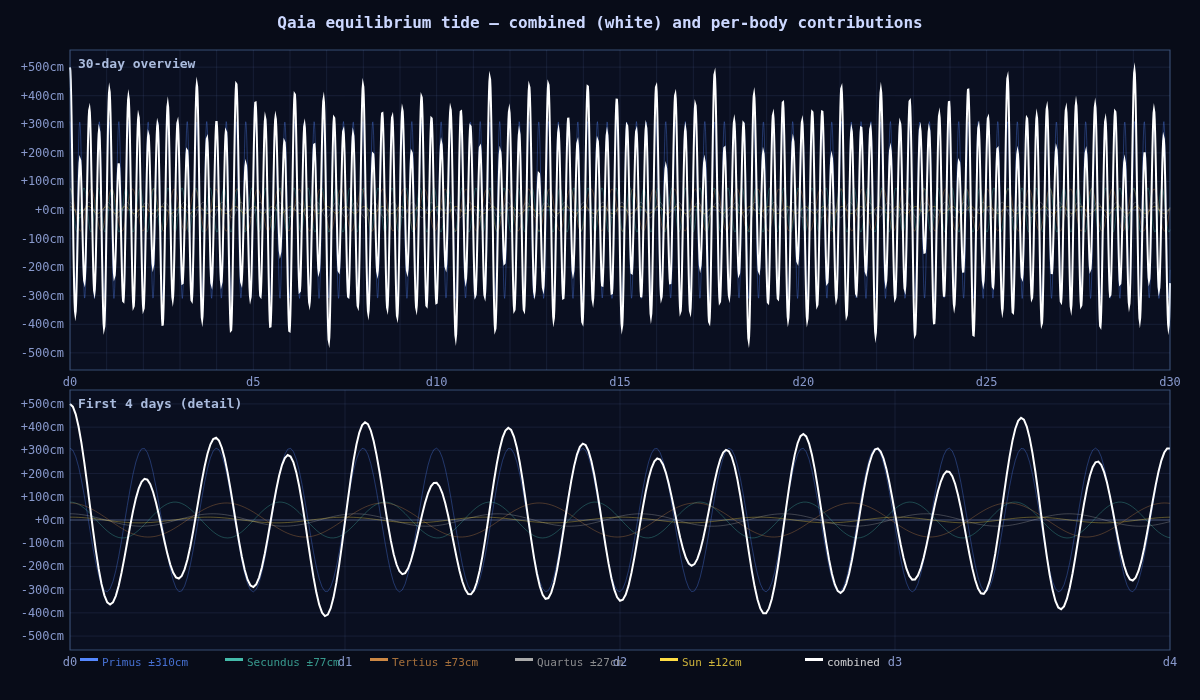
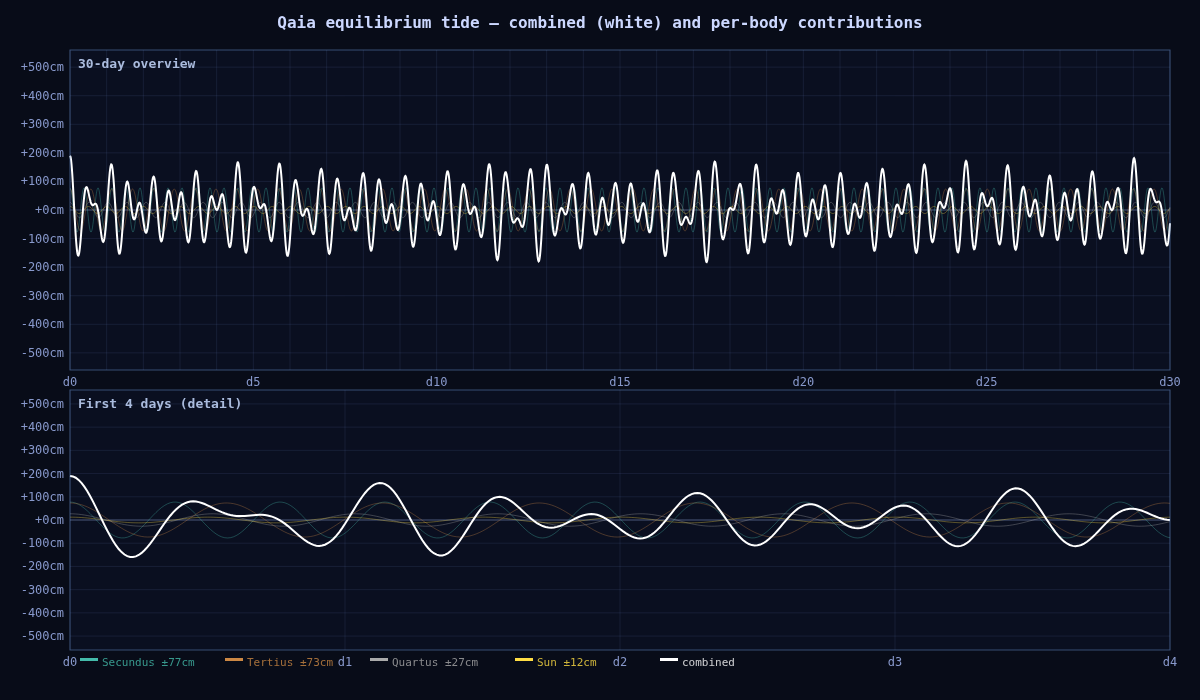
Add geosynchronous Primus: magically anchored to Qaia's sidereal orbit
- simulation.js: anchor mechanism — Body.anchor config, _enforceAnchors()
  called at construction and end of each step; _anchors cache avoids
  scanning all bodies on every step
- bodies.js: Primus at GEO radius (~0.11 LD), 0.001 M_moon, 2× lunar
  density, prograde circular orbit anchored to Qaia index 1;
  Sextus moved inward to 1.7 LD for stability
- MOONS.md: Primus section rewritten for geosynchronous orbit; notes
  permanent ~4m static tidal bulge instead of oscillating tide
- analysis/moon_stats.mjs: Primus as geosynchronous with T_d_override;
  density computed from M and R directly
- analysis/tide_sim.mjs: Primus removed (static bulge, no tidal cycle);
  Sextus updated to 1.7 LD
- tests/geo_stability.mjs, geo_primus_check.mjs, secundus_sweep.mjs,
  geo_zoom.mjs: stability and screenshot scripts for geo-primus branch

diff --git a/bodies.js b/bodies.js
@@ -13,15 +13,17 @@ export const R_EARTH            = 6.371e6;  // meters
 export const R_MOON     = 1.737e6;  // meters
 
 // Six-moon system stable past 1000 simulated years.
-// Inner four (all e=0.10): Primus 0.02 LM at 0.12 LD (≈ 1.14 d), Secundus 0.04 LM at 0.24 LD (≈ 3.23 d),
-//   Tertius 0.25 LM at 0.45 LD (≈ 8.3 d), Quartus 1.00 LM at 1.00 LD (≈ 27.5 d).
-//   Primus and Secundus retrograde, 2× lunar density; Tertius and Quartus prograde.
-// Outer two (retrograde): Sextus 0.01 LM at 1.9 LD (≈ 72 d), Septimus 0.01 LM at 2.2 LD (≈ 90 d).
-const M_PRIMUS       = M_MOON * 0.02;
-const R_PRIMUS       = R_MOON * Math.cbrt(0.02 / 2);  // 2× lunar density
-const PRIMUS_E       = 0.10;
-const PRIMUS_A       = 0.12 * LUNAR_DIST;
-const PRIMUS_R_PERI  = PRIMUS_A * (1 - PRIMUS_E);
+// Primus: geosynchronous prograde (magically anchored, ~0.11 LD), 0.001 LM, 2× lunar density.
+// Inner three (all e=0.10): Secundus 0.04 LM at 0.24 LD (≈ 3.23 d) retrograde,
+//   Tertius 0.25 LM at 0.45 LD (≈ 8.3 d) prograde, Quartus 1.00 LM at 1.00 LD (≈ 27.5 d) prograde.
+// Outer two (retrograde): Sextus 0.01 LM at 1.7 LD (≈ 60.8 d), Septimus 0.01 LM at 2.2 LD (≈ 90 d).
+export const QAIA_SIDEREAL_DAY = 86164;  // seconds — Qaia's sidereal rotation period
+
+const M_PRIMUS       = M_MOON * 0.001;
+const R_PRIMUS       = R_MOON * Math.cbrt(0.001 / 2);  // 2× lunar density
+const PRIMUS_OMEGA   = 2 * Math.PI / QAIA_SIDEREAL_DAY;  // geosynchronous angular velocity
+const PRIMUS_A       = Math.cbrt(G * M_EARTH / (PRIMUS_OMEGA * PRIMUS_OMEGA));  // ~42,160 km
+const PRIMUS_PHASE   = Math.PI;  // initial angle in inertial frame (toward Sun side at t=0)
 
 const M_SECUNDUS      = M_MOON * 0.04;
 const R_SECUNDUS      = R_MOON * Math.cbrt(0.04 / 2);  // 2× lunar density
@@ -46,7 +48,7 @@ const R_QUINTUS      = R_MOON * Math.cbrt(0.1);
 const M_SEXTUS       = M_MOON * 0.01;
 const R_SEXTUS       = R_MOON * Math.cbrt(0.01);
 const SEXTUS_E       = 0.10;
-const SEXTUS_A       = 1.9 * LUNAR_DIST;
+const SEXTUS_A       = 1.7 * LUNAR_DIST;
 const SEXTUS_R_PERI  = SEXTUS_A * (1 - SEXTUS_E);
 
 const M_SEPTIMUS      = M_MOON * 0.01;
@@ -59,7 +61,6 @@ export function createInitialBodies() {
   const v_earth         = Math.sqrt(G * M_SUN   / AU);
   const v_moon_rel      = Math.sqrt(G * M_EARTH / LUNAR_DIST);
   // Periapsis speeds from vis-viva: v = sqrt(G M (1+e) / r_peri)
-  const v_primus_peri   = Math.sqrt(G * M_EARTH * (1 + PRIMUS_E)   / PRIMUS_R_PERI);
   const v_secundus_peri = Math.sqrt(G * M_EARTH * (1 + SECUNDUS_E) / SECUNDUS_R_PERI);
   const v_tertius_peri  = Math.sqrt(G * M_EARTH * (1 + TERTIUS_E)  / TERTIUS_R_PERI);
   const v_sextus_peri   = Math.sqrt(G * M_EARTH * (1 + SEXTUS_E)   / SEXTUS_R_PERI);
@@ -91,14 +92,16 @@ export function createInitialBodies() {
     new Body({
       name: 'Primus',
       mass: M_PRIMUS,
-      // Periapsis at 180° (in −x from Qaia). Retrograde v points in +y in Qaia's frame.
-      x: AU - PRIMUS_R_PERI, y: 0, z: 0,
-      vx: 0, vy: v_earth + v_primus_peri, vz: 0,
+      // Geosynchronous prograde orbit — magically anchored to Qaia's sidereal rotation.
+      // Initial position at PRIMUS_PHASE=π (sunward from Qaia); anchor overrides each step.
+      x: AU - PRIMUS_A, y: 0, z: 0,
+      vx: 0, vy: v_earth - PRIMUS_A * PRIMUS_OMEGA, vz: 0,
       physicalRadius: R_PRIMUS,
       minDisplayPx: 3,
       color: '#4466CC',
       trailColor: '#4466CC',
       trailMaxLen: 300,
+      anchor: { toIndex: 1, radius: PRIMUS_A, omega: PRIMUS_OMEGA, phase: PRIMUS_PHASE },
     }),
     new Body({
       name: 'Secundus',

diff --git a/simulation.js b/simulation.js
@@ -23,6 +23,9 @@ export class Body {
     this.trailBuf        = [];
     this.trailHead       = 0;  // index of oldest point
     this.trailCount      = 0;  // number of valid points
+    // Anchor: magically lock body to a circular orbit around another body.
+    // { toIndex: int, radius: m, omega: rad/s, phase: rad (angle at t=0) }
+    this.anchor          = cfg.anchor || null;
   }
 
   recordTrail(refX = 0, refY = 0) {
@@ -53,6 +56,11 @@ export class Simulation {
     this.dt     = 360;   // simulation timestep: 6 minutes in seconds
     this.time   = 0;     // elapsed simulation seconds
     this.bodies = bodies;
+    // Cache anchored bodies to avoid scanning all bodies every step.
+    this._anchors = bodies
+      .filter(b => b.anchor)
+      .map(b => ({ body: b, ref: bodies[b.anchor.toIndex], cfg: b.anchor }));
+    this._enforceAnchors();
     this._computeAccelerations();
     this.initialEnergy = this.totalEnergy();
   }
@@ -85,6 +93,21 @@ export class Simulation {
     }
   }
 
+  // Override anchored bodies to exact geosynchronous positions and velocities.
+  // Called at construction and after each Velocity Verlet step.
+  _enforceAnchors() {
+    const PI2 = 2 * Math.PI;
+    for (const { body: b, ref, cfg } of this._anchors) {
+      // Wrap angle to [0, 2π] to keep trig args small (avoids costly range reduction).
+      const θ    = (cfg.phase + cfg.omega * this.time) % PI2;
+      const cosθ = Math.cos(θ), sinθ = Math.sin(θ);
+      b.x  = ref.x  + cfg.radius * cosθ;
+      b.y  = ref.y  + cfg.radius * sinθ;
+      b.vx = ref.vx - cfg.radius * cfg.omega * sinθ;
+      b.vy = ref.vy + cfg.radius * cfg.omega * cosθ;
+    }
+  }
+
   // Velocity Verlet (symplectic, 2nd-order, conserves energy well for orbits)
   _step() {
     const dt   = this.dt;
@@ -114,6 +137,9 @@ export class Simulation {
     }
 
     this.time += dt;
+
+    // Enforce anchors at t+dt so trails record exact positions.
+    this._enforceAnchors();
   }
 
   // Advance by n steps, recording trail every trailInterval steps.

diff --git a/MOONS.md b/MOONS.md
@@ -7,26 +7,28 @@ Quartus (1.00 LD, 1 M_moon) is used as the reference body throughout.
 
 ---
 
-## Primus — retrograde
+## Primus — geosynchronous prograde *(magically anchored)*
 
 | Property | Value |
 |---|---|
 | Mass | 0.020 M_moon |
 | Radius | 374 km (0.215 R_moon) |
 | Density | 6,689 kg/m³ — **2× lunar**, near-iron |
-| Semi-major axis | 0.12 LD |
-| Period | 1.14 days |
-| Eccentricity | 0.10 |
-| Angular diameter | 55.8′ mean (50.7′–62.0′) — **1.80× Quartus** |
-| Full-moon brightness | **−14.0** (1.27 mag brighter than Quartus) |
+| Orbital radius | 0.110 LD (~42,160 km) — geosynchronous |
+| Period | 1.00 days (= Qaia sidereal day) |
+| Eccentricity | 0 (circular by construction) |
+| Angular diameter | **61.0′** — **1.96× Quartus** |
+| Full-moon brightness | **−14.2** (1.47 mag brighter than Quartus) |
 | Surface gravity | 0.700 m/s² (0.43× Quartus) |
 | Surface area | 1.76 M km² (4.6% of Quartus) |
 | Escape velocity | 724 m/s |
-| Tidal force on Qaia | **11.6× Quartus** |
-| Hill sphere fraction | 3.1% |
-| Roche margin | 6.1× (rigid body) |
+| Static tidal bulge | **~4 m** permanent ocean offset (not an oscillating tide) |
+| Hill sphere fraction | 2.8% |
+| Roche margin | 5.6× (rigid body) |
 
-Despite being a tiny body, Primus is the most visually dominant moon — it appears nearly twice the angular size of Quartus and is brighter, because it's so close. Its 1.14-day period and retrograde direction mean it **rises in the west and sets in the east**. At 6,690 kg/m³ it is denser than Earth (5,510) and nearly as dense as iron. Its tidal effect on Qaia is 11.6× that of Quartus — by far the dominant tide-driver despite its small mass.
+Primus is fixed over a single point on Qaia's surface — it neither rises nor sets for the hemisphere beneath it, and is never visible from the opposite hemisphere. It is by far the dominant object in the sky from its sublunar region: **61′ apparent diameter** (nearly twice Quartus / our Moon) and magnitude −14.2. At 6,690 kg/m³ it is nearly iron-density, likely a fragment of a differentiated parent body.
+
+**Tidal signature**: because Primus co-rotates with Qaia, it does not sweep across the sky and produces no oscillating tide. Instead it raises a **permanent ~4 m static bulge** in Qaia's oceans — sea level is ~4 m higher along the Primus–antiprimus axis and ~4 m lower at the 90° ring. This is a permanent geographic feature, not a daily cycle. The daily tidal rhythm on Qaia is driven entirely by Secundus, Tertius, and Quartus.
 
 ---
 
@@ -49,7 +51,7 @@ Despite being a tiny body, Primus is the most visually dominant moon — it appe
 | Hill sphere fraction | 6.2% |
 | Roche margin | 7.7× |
 
-At mean distance Secundus appears almost exactly the same angular size as Quartus; near periapsis it is noticeably larger. Also retrograde — likely a sibling body to Primus, same density suggesting shared origin or composition. Contributes nearly 3× Quartus's tidal effect.
+At mean distance Secundus appears almost exactly the same angular size as Quartus; near periapsis it is noticeably larger. Retrograde — same 2× lunar density as Primus, suggesting shared origin or composition (both iron-rich fragments of the same progenitor). Contributes nearly 3× Quartus's tidal effect.
 
 ---
 
@@ -95,7 +97,7 @@ A substantial rocky world — larger in the sky than our Moon. Prograde, 8.3-day
 | Hill sphere fraction | 25.7% |
 | Roche margin | 40.5× |
 
-A clone of Earth's Moon at the same distance and mass. The natural calendar body. Appears the smallest of the four inner moons in the sky.
+A clone of Earth's Moon at the same distance and mass. The natural calendar body. Appears the smallest of the four inner moons in the sky — only 31′ vs Primus's 61′.
 
 ---
 
@@ -147,16 +149,18 @@ Physically identical to Sextus but 16% farther out — slightly smaller and dimm
 
 ## System Notes
 
-**Combined tidal load**: Primus (×11.6) + Secundus (×2.9) + Tertius (×2.7) + Quartus (×1.0) ≈ **18× our Moon's total tidal force**. Ocean tides on Qaia are extreme and complex.
+**Oscillating tidal load**: Secundus (×2.9) + Tertius (×2.7) + Quartus (×1.0) ≈ **6.6× our Moon's total tidal force**. Primus contributes a separate static ~4 m bulge but no daily tidal cycle. Total tidal complexity comes from three incommensurate oscillating drivers (9.2h, 13.7h, 12.5h).
 
-**All four inner moons appear larger than our Moon** in Qaia's sky. Quartus at 31′ is the *smallest* of the four.
+**All four inner moons appear larger than our Moon** in Qaia's sky. Quartus at 31′ is the *smallest* of the four; Primus at 61′ is the largest.
 
-**Retrograde moons** (Primus, Secundus, Sextus, Septimus) rise in the west. A nighttime observer sees two dense, fast metallic moons sweeping east-to-west and two larger ones moving west-to-east.
+**Primus visibility**: fixed over one hemisphere. Observers on the sublunar face see a 61′ moon that never moves. Observers on the far side never see it. This creates a profound day/night asymmetry on Qaia — one hemisphere has a permanent "second sun" (in brightness terms) overhead.
 
-**Density split**: Primus and Secundus at 6,690 kg/m³ are likely iron-rich captured bodies or fragments of a differentiated progenitor. The rest are standard rocky at lunar density.
+**Retrograde moons** (Secundus, Sextus, Septimus) rise in the west. A nighttime observer on the near side sees the dominant stationary Primus plus Secundus sweeping east-to-west, while Tertius and Quartus move west-to-east.
 
-**Tidal migration**: Retrograde moons lose energy to tidal friction and spiral *inward* over geological time (opposite to our Moon). Primus and Secundus are very slowly approaching Qaia. Primus is 6.1× outside its Roche limit and in no near-term danger.
+**Density split**: Primus and Secundus at 6,690 kg/m³ are likely iron-rich fragments of a differentiated progenitor. The rest are standard rocky at lunar density.
 
-**Tidal locking**: All inner moons are almost certainly synchronously rotating — tidal locking timescale scales as a⁶, so Primus at 0.12 LD locks in a tiny fraction of the time needed for Quartus.
+**Tidal migration**: Primus is magically anchored — no tidal torque, no migration. Secundus (retrograde) slowly spirals inward over geological time. Roche margin is comfortable for all moons.
+
+**Tidal locking**: The three freely-orbiting inner moons are almost certainly synchronously rotating — tidal locking timescale scales as a⁶.
 
 **Quintus** is a trace particle at the Sun-Qaia L4 point (60° ahead of Qaia). It librates between ~45° and ~80° from Qaia with a period of ~2,000 years. Effectively massless — included for worldbuilding purposes.
